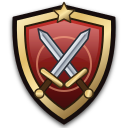
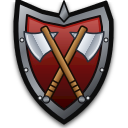
Horde crest: iron rim, spiked shoulders, crossed axes; authors list; README intro no longer denies timers/levels

diff --git a/README.md b/README.md
@@ -3,8 +3,8 @@
 WoW Forever has no RP-PvP realms, so this addon makes the commitment a
 community badge instead. Each character swears an oath to stay flagged for
 PvP. Sworn players wear a faction crest on their player, target and focus
-frames and beside their name on nameplates, and other members can see it. There are no levels, ranks, timers
-or streaks: you're either sworn and flagged, or you aren't.
+frames and beside their name on nameplates, and other members can see it. There are
+no ranks or scores: you're either sworn and flagged, or you aren't.
 
 ## Install and share
 
